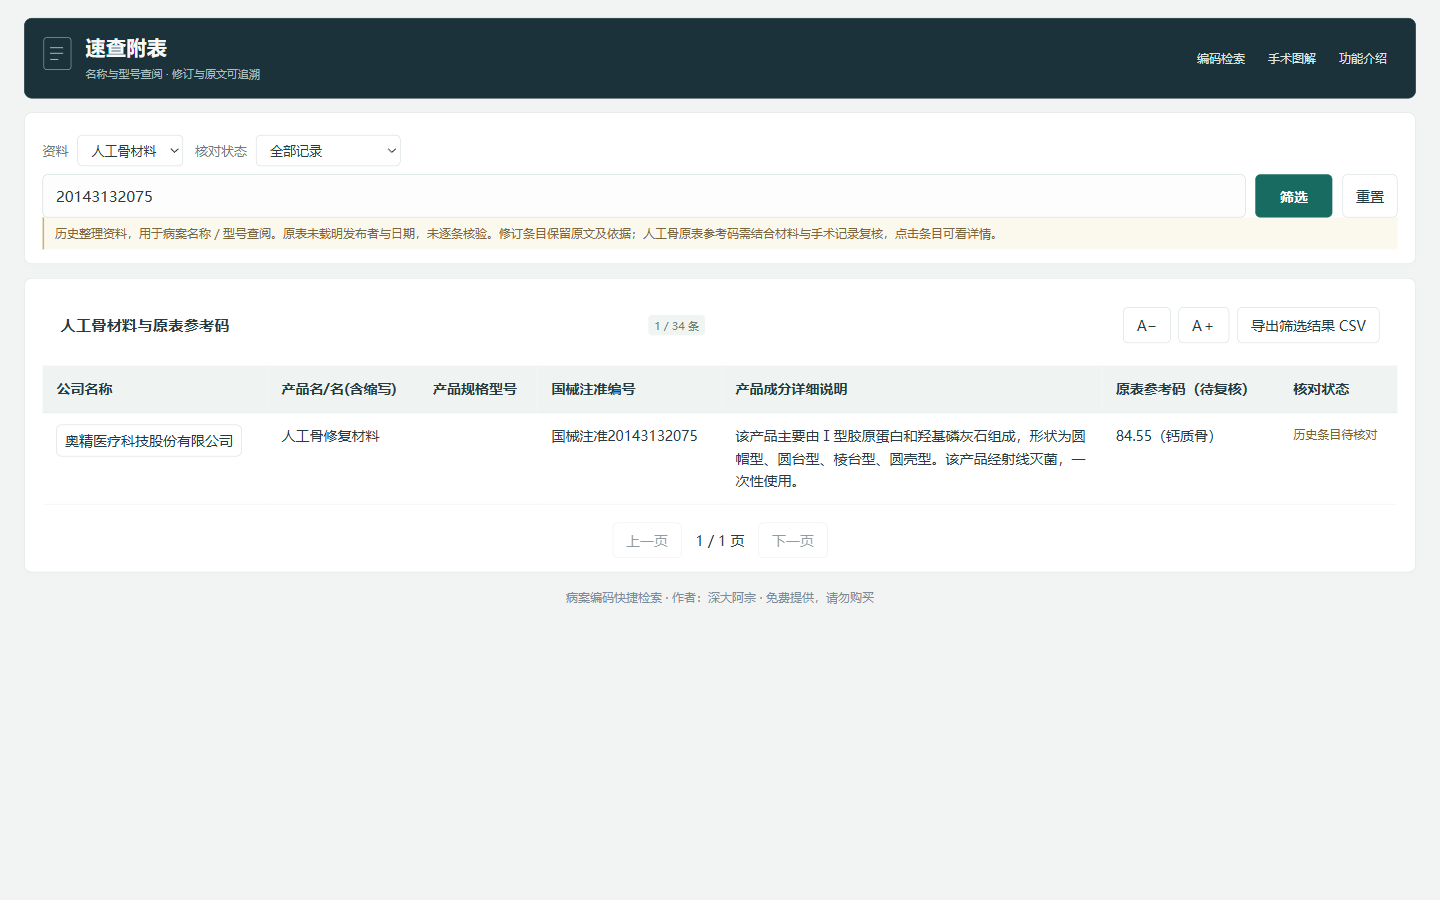
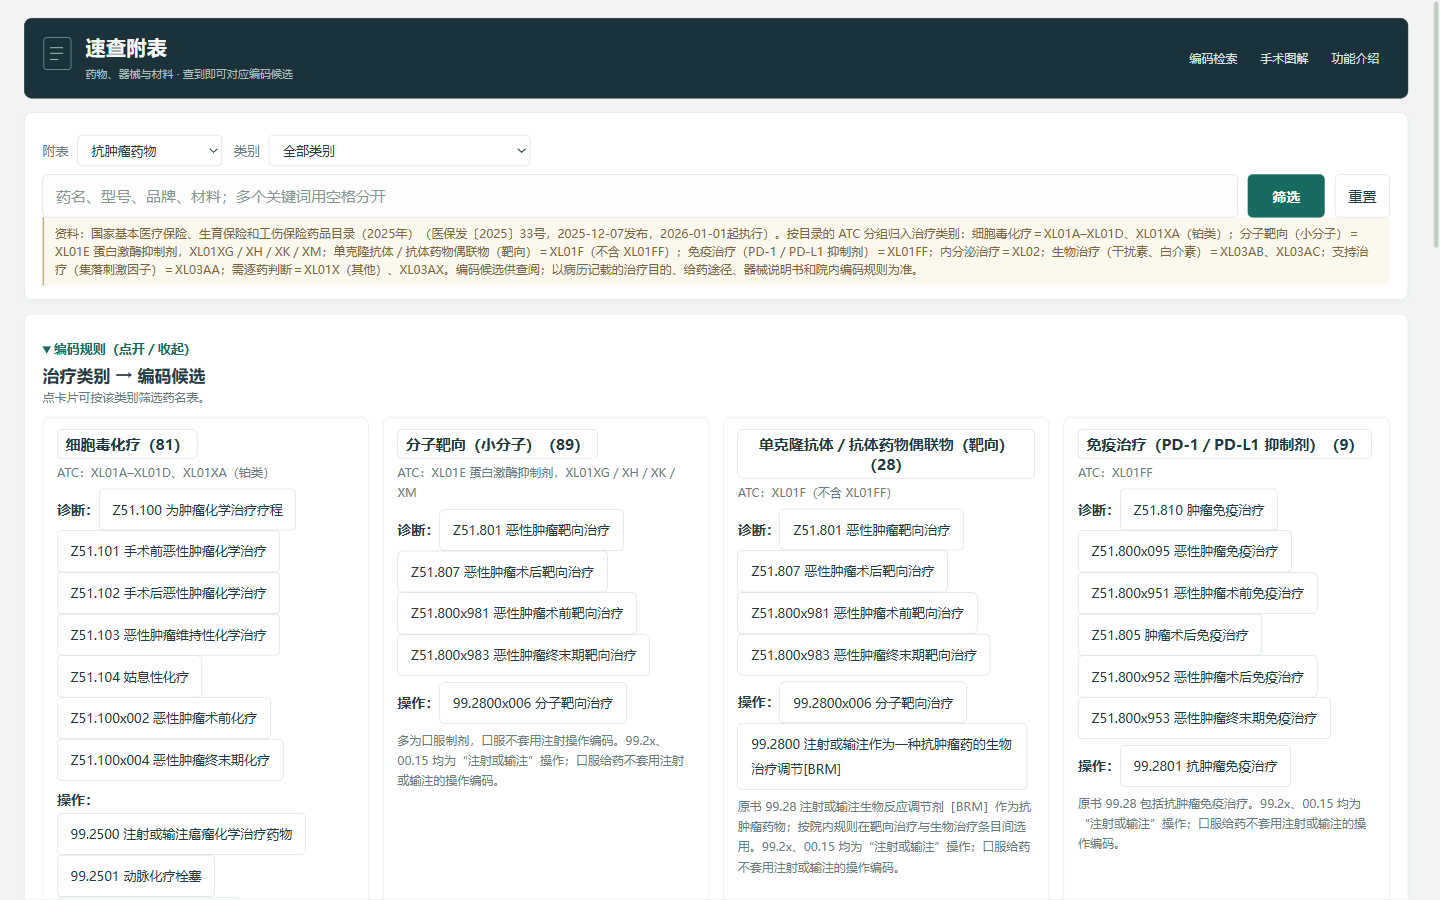
docs: WHO ICD-10 versions, ICD-11 details and rebuilt quick tables; release 0.6.0

diff --git a/README.md b/README.md
@@ -1,19 +1,19 @@
 # 病案编码快捷检索
 
-病案编码快捷检索是一款面向病案编码、病案管理与编码学习场景的 Windows 离线工具。提供**诊断编码检索、手术操作编码检索、灰码标记与差异查阅、WHO ICD-11 中英文简表查询、本次查阅与常用收藏、条目备注、固定参照、码名及依据复制、JSON 备份导入导出**等功能。**0.5.0新增常见称呼／写法辅助、最近搜索和有来源的中文参考对照；三类速查附表及18张开放图解继续随包可离线使用。另保留主导词路径、分类正文及ICD-O-4肿瘤形态学／部位／变更查询界面，使用者导入自有资料后启用；这些可选资料不随公开下载包分发。**
+病案编码快捷检索是一款面向病案编码、病案管理与编码学习场景的 Windows 离线工具。提供**诊断编码检索、手术操作编码检索、灰码标记与差异查阅、WHO ICD-11 中英文简表查询、本次查阅与常用收藏、条目备注、固定参照、码名及依据复制、JSON 备份导入导出**等功能。**0.6.0新增WHO ICD-10多版本对照（国内基础的2008版，可切换2010／2016／2019并查看版本变化）、ICD-11条目详情（WHO官方定义、包括、不包括、编码至他处、索引词与同义词、围生期／孕产期相关条目，中英文原文），速查附表改为“查到即可对应编码候选”：《国家医保药品目录（2025年）》抗肿瘤药物282条、FDA器械库神经刺激器71个型号、骨修复与填充材料7类规则。常见称呼辅助、最近搜索、中文参考对照及18张开放图解继续提供。另保留主导词路径、分类正文及ICD-O-4肿瘤形态学／部位／变更查询界面，使用者导入自有资料后启用；这些可选资料不随公开下载包分发。**
 
 支持按编码、中文名称、多关键词和拼音首字母查找；连续中文全词无结果时，还可按字序补充查找并注明命中原因。候选列表和条目详情并列显示，方便查找码名、核对编码原文与资料版本、整理日常查阅记录。
 
 **作者：深大阿宗。免费提供，请勿购买。** 无需账号，检索与个人保存可离线使用；打开官方参考网站时需要联网。
 
-**当前版本：0.5.0（2026-10-26），公开发行版。暂不公开独立源码工程。**
+**当前版本：0.6.0（2026-10-31），公开发行版。暂不公开独立源码工程。**
 
 项目名称：病案编码快捷检索  
 官方项目网址：https://github.com/MRxu-1/medical-record-search
 
 ## 下载与运行
 
-打开本项目 **[最新版本下载](https://github.com/MRxu-1/medical-record-search/releases/latest)**，下载 `medical-record-search-v0.5.0-win-x64.zip`。完整解压后双击 `病案编码快捷检索.exe`，保留旁边的 DLL 与“程序资源”文件夹。不要下载 GitHub 自动生成的“Source code”压缩包来运行，那只是本仓库说明文件的快照。
+打开本项目 **[最新版本下载](https://github.com/MRxu-1/medical-record-search/releases/latest)**，下载 `medical-record-search-v0.6.0-win-x64.zip`。完整解压后双击 `病案编码快捷检索.exe`，保留旁边的 DLL 与“程序资源”文件夹。不要下载 GitHub 自动生成的“Source code”压缩包来运行，那只是本仓库说明文件的快照。
 
 需要 Windows 10/11 64 位、.NET Framework 4.6.2 或以上，以及 [Microsoft Edge WebView2 Runtime](https://developer.microsoft.com/microsoft-edge/webview2/)；运行环境未捆绑。检索可离线使用，官方参考网站需要主动联网。未测试所有 Windows 10/11 环境。
 
@@ -25,7 +25,9 @@
 | **手术操作编码检索** | 查询手术与操作名称、编码和拼音首字母，按已有类别、级别筛选；详情展示目录提供的手术级别、操作类别、微创目录收录等属性。 |
 | **多方式快速查找** | 支持编码、中文名称、空格分隔的多关键词及拼音首字母。连续中文全词无结果时，按汉字顺序补充候选并标明原因，便于处理“腹腔镜胆囊切除”等常见输入。 |
 | **灰码标记与差异查阅** | 展示灰码表收录标记，保留同码异名、换码及组合码的来源记录，便于分别查看国临侧与医保侧已有信息。医保诊断侧仅覆盖灰码表范围，不能当作完整医保目录。 |
-| **WHO ICD-11 公开简表** | 查询WHO 2026-01中英文简表，按编码或中英文名称查找，查看分类层级、下级条目、表内注释、续行和URI；可打开WHO官方条目进一步查阅。 |
+| **WHO ICD-10 多版本** | 诊断详情显示对应的WHO ICD-10英文条目，默认国内基础的2008版，可切换2010／2016／2019，查看该码在各版本中的新增、改名或删除。 |
+| **WHO ICD-11 公开简表与详情** | 查询WHO 2026-01中英文简表，按编码、中英文名称或WHO索引词查找；详情显示官方定义、包括、不包括（可点击跳转）、编码至他处、索引词与同义词、围生期／孕产期相关条目及英文原文，并可打开WHO官方条目。 |
+| **速查附表** | 抗肿瘤药物（国家医保目录2025）按治疗类别对应诊断与操作编码候选；神经刺激器按FDA器械库型号与可充电／多列规则对应86.94～86.98；骨修复与填充材料按材料对应编码。点编码可回编码检索。 |
 | **本次查阅与常用收藏** | 将目录或ICD-11条目加入统一保存列表，区分本次与常用，保留条目及来源快照，并添加个人备注，方便再次查阅。 |
 | **固定参照** | 固定一条目录记录作为参照，继续检索并查看另一条记录，在同一页面核对码名和已有属性。 |
 | **复制与备份** | 复制码名或带来源的查阅依据，保留成对及组合编码原文；支持将保存列表导出为JSON并重新导入，方便备份与迁移。 |
@@ -38,9 +40,10 @@
 | 连续中文查手术 | `腹腔镜胆囊切除` | 在手术页搜索，字序补充可找到“腹腔镜下胆囊切除术”，并显示补充命中原因。 |
 | 手术拼音首字母 | `fqjxdnqcs` | 查“腹腔镜下胆囊切除术”，再查看手术编码、类别和目录级别。 |
 | 诊断拼音首字母 | `pgy` 或 `bgy` | 在诊断页查“膀胱炎”；拼音来自构建生成的常用读音及已有另读。 |
-| ICD-11中英文查找 | `1A00`、`霍乱` 或 `cholera` | 在ICD-11模块查对应公开表条目，查看原表层级、注释与官方URI。 |
+| ICD-11中英文查找 | `1A00`、`霍乱` 或 `cholera` | 在ICD-11模块查对应公开表条目，查看原表层级、定义、不包括与官方URI。 |
+| 药物对应编码 | `信迪利` | 在速查附表查到信迪利单抗注射液（PD-1抑制剂），查看免疫治疗的诊断与操作编码候选。 |
 
-日常可按“检索候选 → 查看编码和属性 → 固定参照或复制依据 → 加入本次／常用 → 导出备份”的顺序使用。主导词路径、中文工具书正文及ICD-O-4整表不在当前公开包内，具体见下方资料范围。
+日常可按“检索候选 → 查看编码和属性 → 固定参照或复制依据 → 加入本次／常用 → 导出备份”的顺序使用。主导词路径、中文工具书正文、ICD-O-4整表及ICD-10／ICD-11映射表不在当前公开包内，具体见下方资料范围。
 
 ## 界面
 
@@ -56,8 +59,10 @@
 | 手术 | 13,740条，按提供目录标版 |
 | 医保诊断 | 仅灰码目标记录2,695条，非完整医保目录 |
 | 灰码表 | 诊断2,725条、手术2,241条；标记不等于禁用或报销结论 |
-| ICD-11 | WHO 2026-01官方简表37,052项，并非完整编码器 |
-| 本次未附 | 主导词路径、中文分类正文、原书PDF／OCR、ICD-O-4整表及WHO ICD-10旧英文正文参考 |
+| WHO ICD-10 | 2008版英文条目（国内基础）及2010／2016／2019版差异 |
+| ICD-11 | WHO 2026-01官方简表37,052项及条目详情（定义、包括、不包括、索引词等），并非完整编码器 |
+| 速查附表 | 医保目录抗肿瘤药物282条、FDA神经刺激器71个型号、骨修复与填充材料7类规则 |
+| 本次未附 | 主导词路径、中文分类正文、原书PDF／OCR、ICD-O-4整表及WHO ICD-10／ICD-11映射表 |
 
 未附资料不作为本公开版功能宣传。目录按来源标版，不能自动视为你的医院现用目录；本工具不自动跨版本转换或决定编码。
 
@@ -77,11 +82,11 @@
 
 本工具用于编码查阅，适用性由使用者结合目录和要求核对。WHO、IARC及其他机构未认可或背书本软件。
 
-新增：主导词路径、分类正文及ICD-O-4形态学／部位／变更查询界面，支持本机导入自有资料。以上数据不随公开包分发。ICD-11中英文简表原已提供，本版继续保留。
+0.3.0起：主导词路径、分类正文及ICD-O-4形态学／部位／变更查询界面，支持本机导入自有资料。以上数据不随公开包分发。ICD-11中英文简表原已提供，本版继续保留。
 使用：首页点击资料范围，选择查询资料JSON文件，校验保存后打开主导词或肿瘤查询。仅支持本工具整理后的结构化资料包，不能直接导入任意Excel、PDF、其他软件或收藏备份；资料格式整理可由作者协助。本机导入不公开也不上传。再次导入整体替换可选资料，收藏不变。
 
-0.4.0新增速查附表与开放图解：抗肿瘤药物122行、人工骨34行、神经刺激器29行，支持筛选、字体调整、条目复制和CSV导出。历史条目未逐项核验，8行按外部来源修订并保留原文待复审。人工骨的原表参考码不会自动填入编码。
-新增18张NIDDK开放媒体库原图，逐张保留署名、来源、许可和原始散列；未使用朋友软件自带的图片。手术详情按名称主题关联，不把图解当作编码一一对应。图片可离线查阅，联网打开来源需用户主动点击。并非原87项配图的全量替换。
+速查附表（0.6.0重建）：抗肿瘤药物282条取自《国家医保药品目录（2025年）》，按治疗类别列出诊断与操作编码候选；神经刺激器71个型号取自FDA器械库，按原规则对应86.94～86.98，未查到原文的标“待核”；骨修复与填充材料7类规则。点编码可回编码检索；编码候选供查阅，以病历记载和适用要求为准。旧版185行历史条目已移除。
+开放图解：18张NIDDK开放媒体库原图，逐张保留署名、来源、许可和原始散列；手术详情按名称主题关联，不把图解当作编码一一对应。
 
 ## 速查附表与开放图解界面
 

diff --git a/第三方资料说明.md b/第三方资料说明.md
@@ -6,11 +6,13 @@ ICD-11：International Classification of Diseases, Eleventh Revision (ICD-11), W
 Licensed under the Creative Commons Attribution-NoDerivatives 3.0 IGO licence (CC BY-ND 3.0 IGO).
 许可：https://creativecommons.org/licenses/by-nd/3.0/igo/
 WHO条款：https://icd.who.int/en/docs/ICD11-license.pdf
-本包版本：WHO 2026-01中英文官方简表。保留原代码、原表标题及Foundation／Linearization URI；原表无代码的分组保留其URI及原分组标识，未自行赋码。英文补充及原表续行标源。界面、检索、备注为本工具功能，不属于WHO分类原文。未自行翻译分类、修改编码标准或建立跨分类映射。WHO未认可或背书本软件。
+本包版本：WHO 2026-01中英文官方简表，以及条目详情（定义、包括、不包括、编码至他处、索引词、同义词、围生期／孕产期相关条目），取自WHO ICD-API 2026-01及同版WHO中文导出，原文显示。保留原代码、原表标题及Foundation／Linearization URI；原表无代码的分组保留其URI及原分组标识，未自行赋码。英文补充及原表续行标源。“上层中的不包括”由本工具按上级条目汇总显示，非WHO单列字段（WHO ICD-11许可第1.2.5条）。界面、检索、备注为本工具功能，不属于WHO分类原文。未自行翻译分类、修改编码标准或建立跨分类映射；WHO ICD-10／ICD-11映射表不随本包分发（许可第1.2.4条）。WHO未认可或背书本软件。
+
+ICD-10：International Statistical Classification of Diseases and Related Health Problems, 10th Revision (ICD-10), World Health Organization. 本包含WHO ICD-10 2008版英文条目，以及2010、2016、2019版相对2008版的差异，取自WHO发布的ClaML文件 https://icdcdn.who.int/icd10/claml/ ；条目原文显示，未改动。ICD-10不适用上述ICD-11的CC BY-ND许可；WHO未就ICD-10给出公开许可条款，本软件免费、非商业提供，如WHO对此另有要求，将按其要求调整或移除。WHO未认可或背书本软件。
 
 诊断、手术、医保灰码及相关公开目录：按提供者确认可分享的公开字典纳入，保留资料来源版本和原件指纹。公开范围及来源见程序“资料与版本”。这些目录不是本工具原创内容，也未作为本工具自有许可或开源许可重新授权；使用者仍应遵守适用的原始来源条件。不含患者记录，医保诊断侧非完整目录。
 
-本包未含：第三方icd_flask数据／代码、中文工具书及OCR、ICD-O-4整表、WHO ICD-10 2019英文正文。其授权状态不因本包省略而被判定为禁止使用；只是不在本次公开分发范围内。
+本包未含：第三方icd_flask数据／代码、中文工具书及OCR、ICD-O-4整表、WHO ICD-10／ICD-11映射表。其授权状态不因本包省略而被判定为禁止使用；只是不在本次公开分发范围内。
 
 Microsoft.Web.WebView2 1.0.4258.31：以下完整保留组件LICENSE及NOTICE。自有程序使用条件不限制这些组件原许可赋予的权利。
 
@@ -174,7 +176,10 @@ ON ANY THEORY OF LIABILITY, WHETHER IN CONTRACT, STRICT LIABILITY, OR TORT
 (INCLUDING NEGLIGENCE OR OTHERWISE) ARISING IN ANY WAY OUT OF THE USE OF
 THIS SOFTWARE, EVEN IF ADVISED OF THE POSSIBILITY OF SUCH DAMAGE.
 
-速查附表：基于用户提供的历史事实条目另行组织界面、筛选与核对状态。原始发布来源与日期未载明，未逐项核验；8行外部依据修订保留原文待复审。不是官方完整目录或产品选型依据，原表参考编码不自动用于填报。
+速查附表资料来源
+抗肿瘤药物：国家医疗保障局、人力资源社会保障部《国家基本医疗保险、生育保险和工伤保险药品目录（2025年）》（医保发〔2025〕33号），https://www.nhsa.gov.cn/art/2025/12/7/art_104_18970.html 。药名、剂型、ATC分类、甲乙类、编号及备注按目录原文；治疗类别与编码候选为本工具按ATC分组添加，不属于目录原文。
+神经刺激器：美国FDA GUDID器械数据，经openFDA（https://open.fda.gov）取得。Data provided by the U.S. Food and Drug Administration (https://open.fda.gov). This product uses publicly available data from the National Library of Medicine (NLM). NLM is not responsible for the product and does not endorse or recommend this or any other product. 品牌及型号名称归各权利人所有；可充电属性另引厂家官网原文并附地址，未查到原文的标“待核”。FDA、NLM及厂家未认可或背书本软件。
+编码候选取自随包提供的诊断／手术目录，规则文字为本工具整理；以病历记载、器械说明书和适用编码要求为准。
 
 开放图解来源及使用条件
 NIDDK Media Library明确说明库内图片copyright free，可免费复制；须保留以下署名。

diff --git a/CHANGELOG.md b/CHANGELOG.md
@@ -1,6 +1,13 @@
 # 更新记录
 
-0.5.0 · 2026-10-26 · 公开发行版
+0.6.0 · 2026-10-31 · 公开发行版
+新增WHO ICD-10多版本对照：诊断详情显示对应的WHO英文条目，默认国内基础的2008版，可切换2010／2016／2019并查看版本变化。
+新增ICD-11条目详情：WHO官方定义、包括、不包括（可跳转）、编码至他处、索引词与同义词、围生期／孕产期相关条目及英文原文；可按WHO索引词搜索。
+速查附表重建为“查到即可对应编码候选”：《国家医保药品目录（2025年）》抗肿瘤药物282条、FDA器械库神经刺激器71个型号、骨修复与填充材料7类规则；替换旧版185行历史条目。
+程序页面改用当前本机版的检索与详情代码；ICD-10／ICD-11映射表、主导词数据、原书与ICD-O-4整表仍不随包。
+诊断目录记录内容未变，旧保存列表照常显示；因内部记录标识随源表文件更新，升级后对同一诊断再次保存可能出现重复条目，可手动删除。
+
+0.5.0 · 2026-10-26
 作者：深大阿宗。软件首页、关于、功能介绍和GitHub首页加入中文作者署名；仓库简介与首页扩充各功能模块及查询示例。
 新增自有EXE符号／字符串隐藏、十五个应用脚本标识符／字符串混淆，关闭窗口开发者工具；映射表、调试符号、源码映射及构建工具不随包发送。数据包不混淆。
 基于0.2.0对外测试版，保留统一界面、诊断与手术、灰码、保存复制和ICD-11公开简表。
@@ -9,11 +16,11 @@
 官方项目网址已补入软件首页、关于、说明及发布介绍：https://github.com/MRxu-1/medical-record-search
 与本机版、0.2.0测试包及个人保存目录分开维护。功能省略已在界面明确说明。
 
-新增：主导词路径、分类正文及ICD-O-4形态学／部位／变更查询界面，支持本机导入自有资料。以上数据不随公开包分发。ICD-11中英文简表原已提供，本版继续保留。
+0.3.0起：主导词路径、分类正文及ICD-O-4形态学／部位／变更查询界面，支持本机导入自有资料。以上数据不随公开包分发。ICD-11中英文简表原已提供，本版继续保留。
 使用：首页点击资料范围，选择查询资料JSON文件，校验保存后打开主导词或肿瘤查询。仅支持本工具整理后的结构化资料包，不能直接导入任意Excel、PDF、其他软件或收藏备份；资料格式整理可由作者协助。本机导入不公开也不上传。再次导入整体替换可选资料，收藏不变。
 
-0.4.0新增速查附表与开放图解：抗肿瘤药物122行、人工骨34行、神经刺激器29行，支持筛选、字体调整、条目复制和CSV导出。历史条目未逐项核验，8行按外部来源修订并保留原文待复审。人工骨的原表参考码不会自动填入编码。
-新增18张NIDDK开放媒体库原图，逐张保留署名、来源、许可和原始散列；未使用朋友软件自带的图片。手术详情按名称主题关联，不把图解当作编码一一对应。图片可离线查阅，联网打开来源需用户主动点击。并非原87项配图的全量替换。
+速查附表（0.6.0重建）：抗肿瘤药物282条取自《国家医保药品目录（2025年）》，按治疗类别列出诊断与操作编码候选；神经刺激器71个型号取自FDA器械库，按原规则对应86.94～86.98，未查到原文的标“待核”；骨修复与填充材料7类规则。点编码可回编码检索；编码候选供查阅，以病历记载和适用要求为准。旧版185行历史条目已移除。
+开放图解：18张NIDDK开放媒体库原图，逐张保留署名、来源、许可和原始散列；手术详情按名称主题关联，不把图解当作编码一一对应。
 
 0.5.0新增常见称呼／写法辅助和最近搜索。原词命中优先，别名补充标明原因，不改原码原名；可关闭辅助。点击搜索、Enter或选结果才记录，目录及官方表各保留最近8次，仅存本机，可清空，不混入收藏备份。
 ICD-11官方中英文名称继续并列并支持语言范围筛选；ICD-O中文参考独立标源，来自WHO ICD-11同名术语或旧中文目录同码记录，不是IARC官方译名，不自动换码；无参考时保留英文。DRG及试分组明确排除，不纳入本工具。
